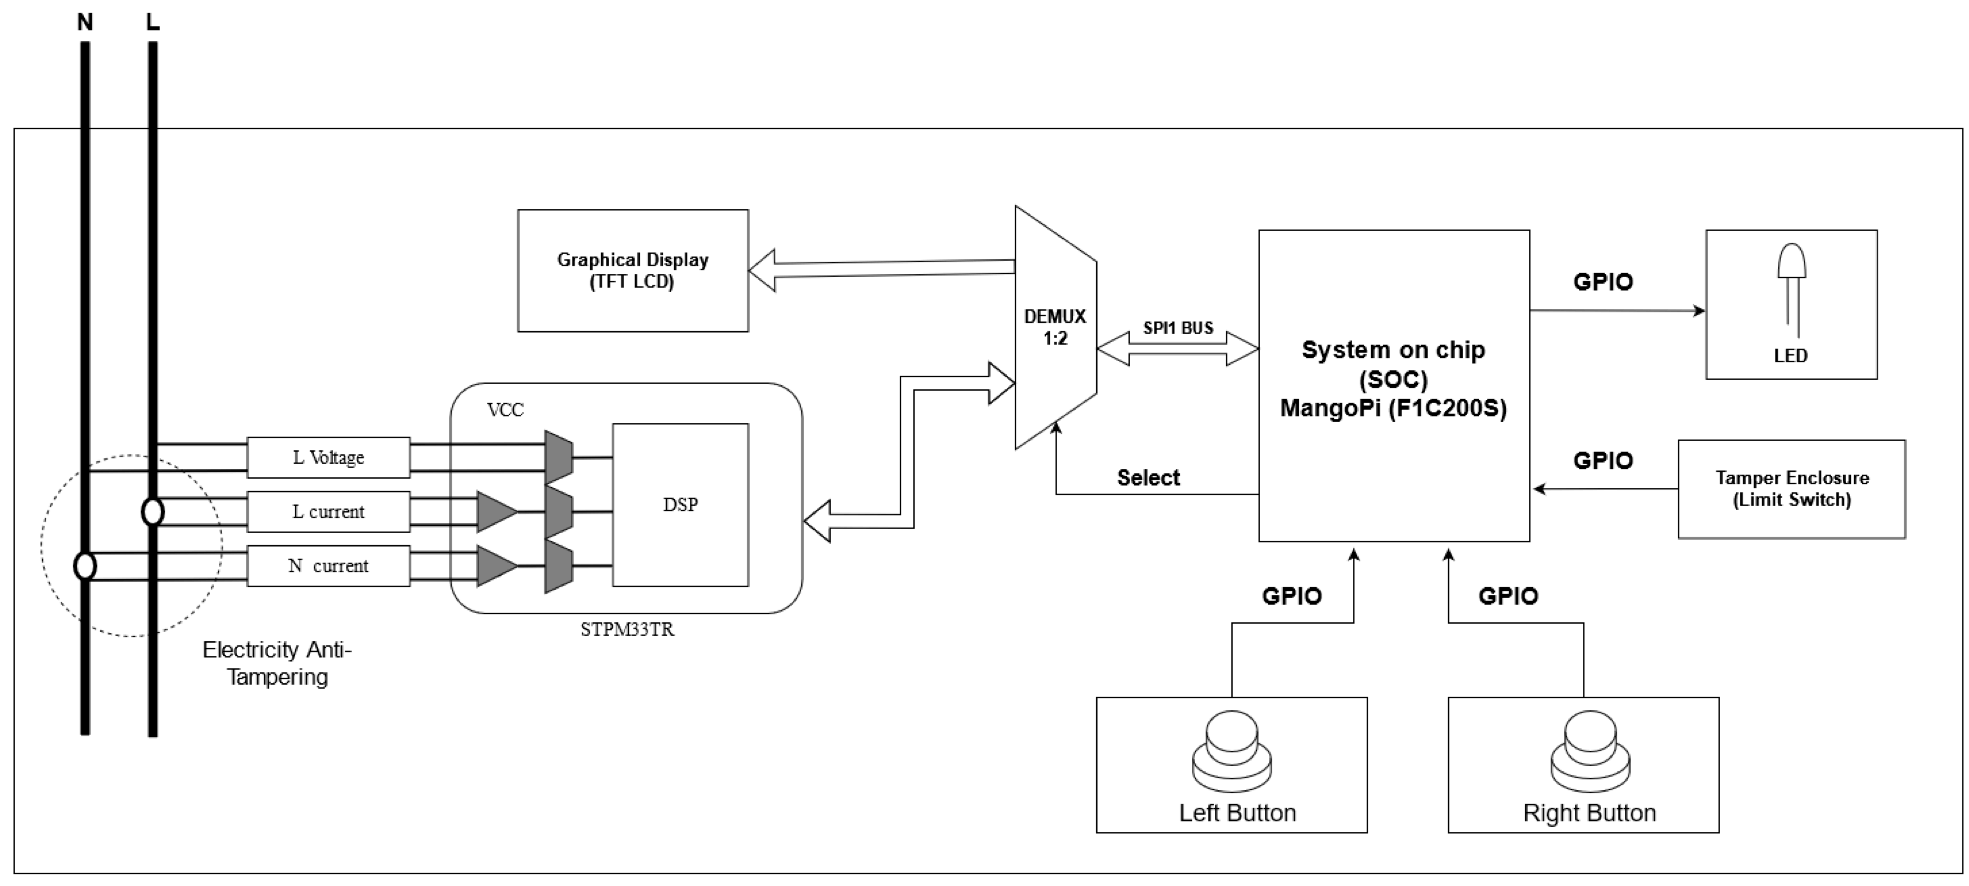
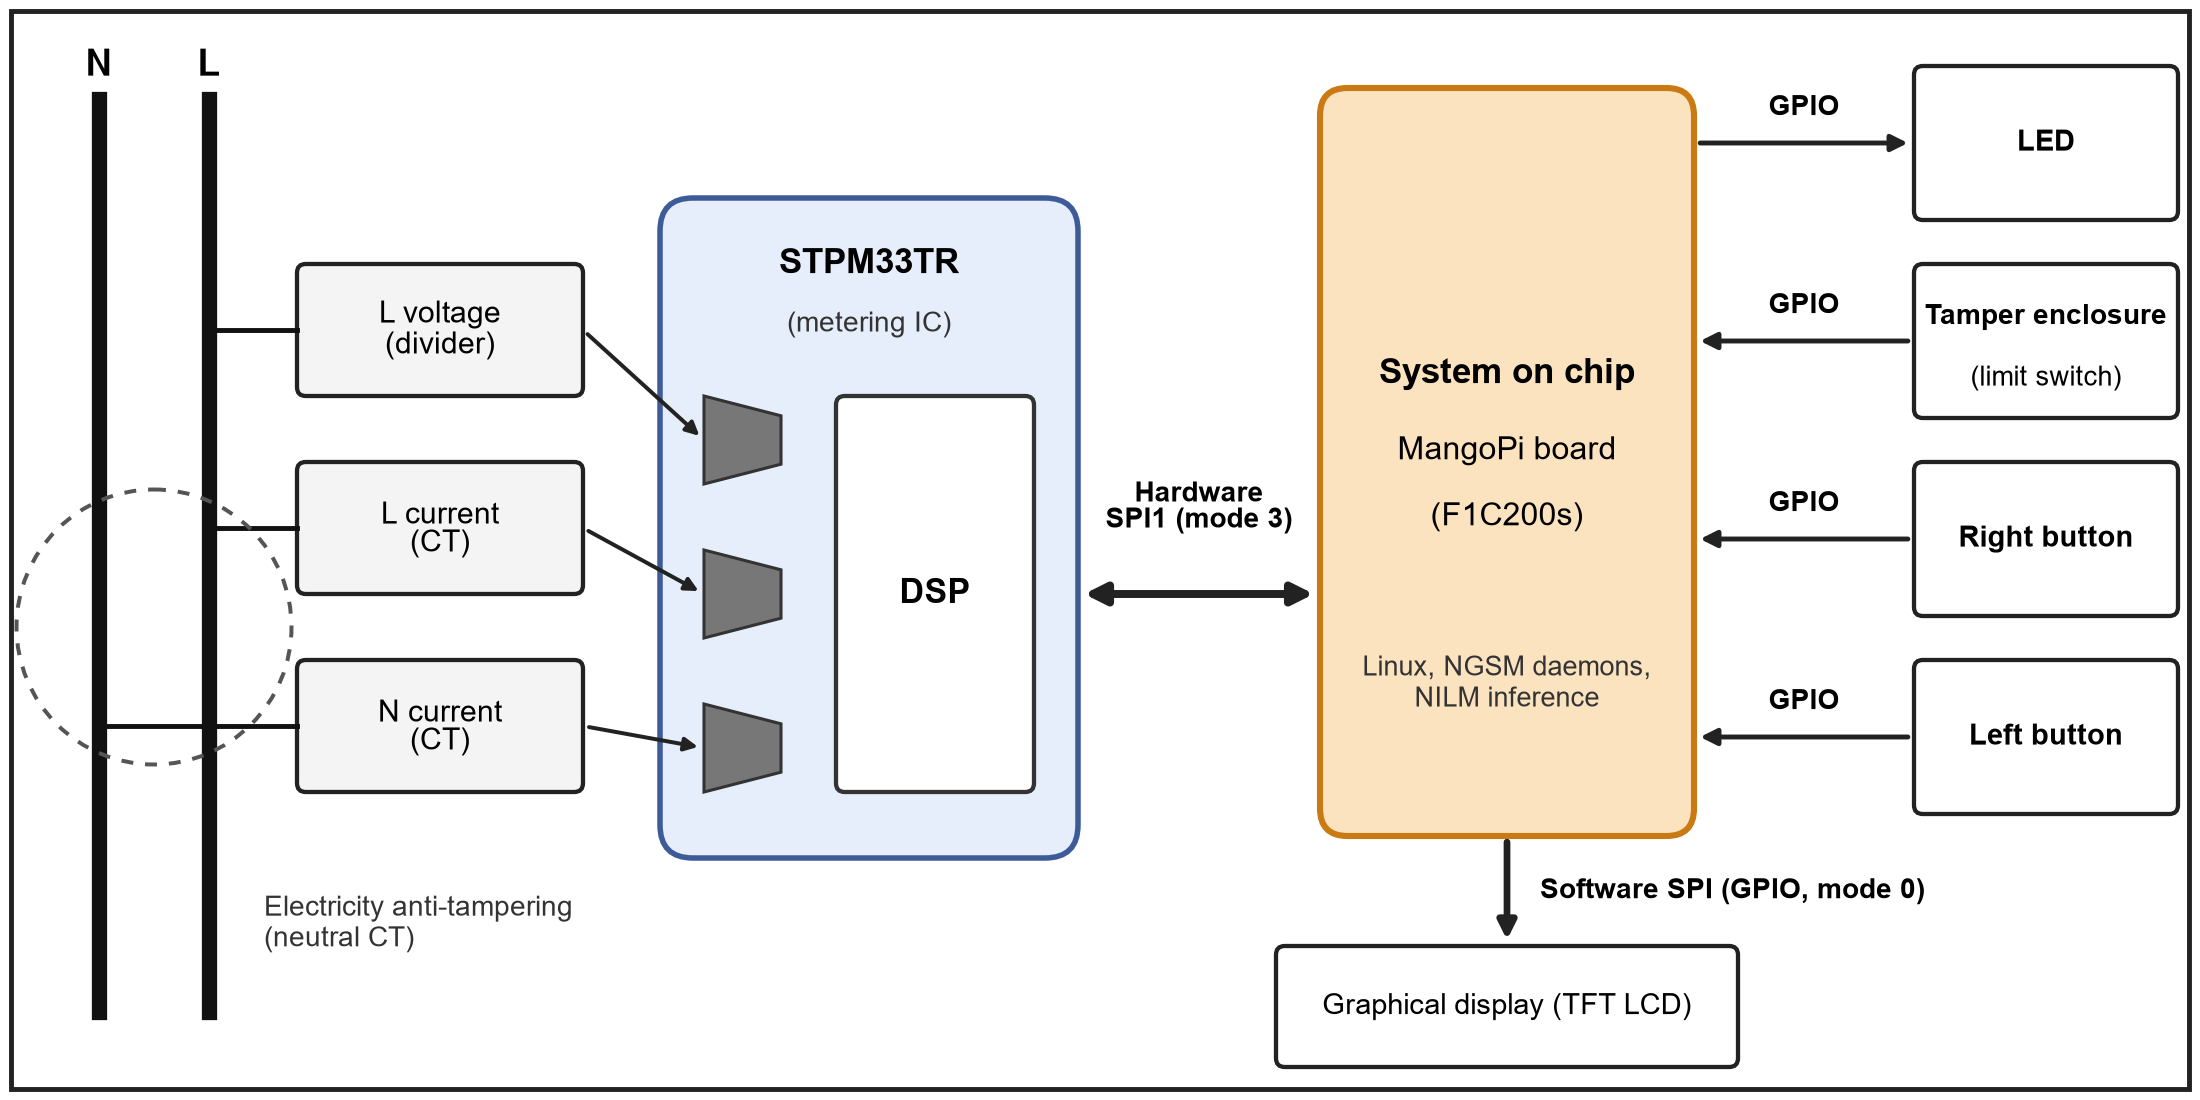
Revise manuscript and figures based on reviewer feedback: update abstract, enhance hardware specifications, clarify power measurements, add operator-fusion ablation, and redraw figures for consistency and legibility.

diff --git a/main.tex b/main.tex
@@ -261,7 +261,7 @@ The power regulation, metrology and processing domains share one double-layer PC
 \begin{figure}[!t]
     \centering
     \includegraphics[width=0.95\textwidth]{figures/img11.png}
-    \caption{Third Generation NGSM Hardware Components illustrating the schematic integration of the Allwinner F1C200s SoC with the STPM33 and peripheral interfaces.}
+    \caption{Third Generation NGSM Hardware Components illustrating the block diagram of the Allwinner F1C200s SoC (MangoPi board) with the STPM33TR on the hardware SPI1, the TFT display on a software SPI, and the GPIO peripherals.}
     \label{fig:gen3_schematic}
 \end{figure}
 
@@ -476,7 +476,7 @@ THD = \frac{\sqrt{\sum_{h=2}^{H} Y_h^2}}{Y_1}
 
 where $H = 40$, the harmonic range defined by IEC 61000-4-7 \cite{iec61000_4_7}.
 
-The spectral composition of the voltage and current waveforms is computed locally at the meter node, in line with edge computing paradigms that avoid the latency of cloud analysis \cite{shang2021achieving}. Spectral estimation follows the harmonic-subgroup method of IEC 61000-4-7 \cite{iec61000_4_7}. The fundamental period is tracked from the positive-going zero crossings of the band-pass-filtered voltage, and both signals are resampled synchronously so that each analysis window contains exactly ten fundamental cycles (200~ms at 50~Hz) with 1024 points per cycle. A rectangular-window DFT then places every harmonic on a 5~Hz bin, and $Y_h$ is the RMS value of the harmonic subgroup (the bin at $h f_1$ and its two neighbours); window values are aggregated as RMS over consecutive windows, as in IEC 61000-4-30 \cite{iec61000_4_30}. Synchronous windowing avoids the spectral leakage of a fixed-length windowed FFT with peak picking, whose accuracy depends on how closely the record length matches an integer number of grid cycles. Because the indices are reported at the 10-min interval, the spectral computation does not have to run on the meter: it can upload a few seconds of samples per interval to a cloud job that returns the indices, which keeps the single core free for metrology and NILM inference.
+The spectral composition of the voltage and current waveforms is computed locally at the meter node, in line with edge computing paradigms that avoid the latency of cloud analysis \cite{shang2021achieving}. Spectral estimation follows the harmonic-subgroup method of IEC 61000-4-7 \cite{iec61000_4_7}. The fundamental period is tracked from the positive-going zero crossings of the band-pass-filtered voltage, and both signals are resampled synchronously so that each analysis window contains exactly ten fundamental cycles (200~ms at 50~Hz) with 1024 points per cycle. A rectangular-window DFT then places every harmonic on a 5~Hz bin, and $Y_h$ is the RMS value of the harmonic subgroup (the bin at $h f_1$ and its two neighbours); window values are aggregated as RMS over consecutive windows, as in IEC 61000-4-30 \cite{iec61000_4_30}. Synchronous windowing avoids the spectral leakage of a fixed-length windowed FFT with peak picking, whose accuracy depends on how closely the record length matches an integer number of grid cycles. The harmonic analysis runs on the meter itself; the indices are reported at the 10-min interval, so it is a short computation per interval, but its execution time and its share of the single core while an inference is running have not been measured separately (see the limitations).
 
 The estimator was verified on synthetic voltage and current signals with known harmonic content (seven profiles from 6.2\% to 110\% THD, fundamental frequencies from 49 to 51~Hz, a frequency drift, an interharmonic and the noise level measured on the prototype; the complete test design is given in the Supplementary Material). Table~\ref{tab:thd_verification} and Figure~\ref{fig:thd_verification} compare the subgroup estimator with a fixed-length Blackman--Harris FFT with peak picking and with a notch method that removes only the fundamental. The subgroup estimator stays within 0.31 percentage points (pp) of the true THD for the profile matching the measured current and within 1.09~pp in the worst case, the low-distortion profile at the measured noise floor. Peak picking is exact only when the record contains an integer number of cycles (50.0~Hz) and deviates by up to 5.4~pp at 50.2~Hz and 10.9~pp under frequency drift. The notch method retains the noise and therefore estimates THD plus noise (THD+N) rather than THD.
 
@@ -1244,6 +1244,25 @@ UK-DALE & Cls. & 3.85 MB & 0.98 MB & 0.98 MB & 3.9$\times$ \\
 \end{tabular}
 \end{table}
 
+\paragraph{Effect of operator fusion}
+To separate the effect of the compiler fusion from that of quantization, each regression network was built in three NCNN forms with identical weights (Table~\ref{tab:fusion}): \textit{unfused}, with Convolution, BatchNorm and ReLU as separate layers; \textit{BN folded}, with BatchNorm merged into the convolution weights; and the \textit{deployed} graph, in which the ReLU is also merged into the convolution layer. PNNX cannot export the unfused graphs, so they were generated directly from the PyTorch weights; all three reproduce the PyTorch output within $4\times10^{-4}$~W, and NCNN's own \texttt{ncnnoptimize} turns the unfused graph into the same 66-layer deployed graph. Fusion removes one third of the layers (98 to 66 for the 12-appliance models) and 0.9\% of the weight file (the BatchNorm parameters), and it does not change the accuracy: the FP32 and the INT8 MAE and F1 are identical to the third decimal in all three forms. The PC latency (single thread, x86) is 6.6--7.9~ms for every form, and the differences between forms are within the repeatability of the measurement ($\pm$0.4~ms); a latency benefit of the fusion could therefore not be shown on the PC. Its effect on the F1C200s, where fewer layers mean fewer passes over the activations in the 64~MB memory, was not measured. Fusion is thus a lossless graph optimization, and the accuracy changes reported in this section are caused by the quantization alone.
+
+\begin{table}[!t]
+\centering
+\caption{Operator-fusion ablation of the regression models (same weights; REFIT on 3{,}000 evenly spaced test windows, the other datasets on the complete test split). Layers: unfused / BN folded / deployed. INT8 results use ACIQ calibration of all convolutions with the same 500 calibration windows. Latency: one window, one thread, PC, range over the three forms (FP32 / INT8).}
+\label{tab:fusion}
+\footnotesize
+\begin{tabular}{@{}lcccc@{}}
+\toprule
+Dataset & Layers & INT8 MAE (W) / F1 (all forms) & INT8 size (MB) unfused / deployed & Latency (ms) \\
+\midrule
+REFIT & 89 / 76 / 60 & 15.85 / 0.450 & 0.74 / 0.72 & 6.8--7.7 / 6.6--7.0 \\
+SustDataED2 & 98 / 85 / 66 & 5.38 / 0.816 & 0.78 / 0.76 & 7.2--7.4 / 6.9--7.1 \\
+UK-DALE & 98 / 85 / 66 & 17.30 / 0.528 & 0.78 / 0.76 & 7.6--7.9 / 7.0--7.3 \\
+\bottomrule
+\end{tabular}
+\end{table}
+
 \paragraph{Stage 4: Cross-Compilation for ARM Architecture}
 The quantized NCNN model was cross-compiled for the ARM926EJ-S with the arm-linux-gnueabi-g++ toolchain (\texttt{-mcpu=arm926ej-s -mfloat-abi=soft}) and the engine statically linked. As the F1C200s has no FPU, the convolutions run in INT8 integer arithmetic while the few remaining floating-point operations (input scaling, quantization scales, output de-quantization, threshold) use soft-float routines; their cost is negligible, since they touch only the 512 inputs and $512\times A$ outputs against $3.8\times10^{8}$ multiply--accumulate operations. The deployment comprises the executable (28~KB), the model structure file (5~KB) and the quantized weights (850~KB), 883~KB in total.
 
@@ -1394,7 +1413,7 @@ Edge processing also relieves bandwidth \cite{Kelly2024}: transmitting only clas
 \subsection{Lifecycle, Scalability and Privacy}
 \label{subsec:lifecycle}
 
-\textit{Updates and scalability.} The meter runs embedded Linux, and system updates are applied by overwriting the deployed system through the available communication mechanism; firmware packages should be authenticated by digital-signature verification before installation, which is planned hardening and not claimed as implemented. Model versions are tracked with MLflow, but this does not show which version runs on each meter, so device-level version reporting and controlled rollout are future work. Backend and database capacity at fleet scale has not been validated, and no capacity claim is made without load tests of telemetry volume, storage under a retention policy, ingestion and query performance.
+\textit{Updates and scalability.} The meter runs embedded Linux, and system updates are applied by overwriting the deployed system through the available communication mechanism; firmware packages should be authenticated by digital-signature verification before installation, which is planned hardening and not claimed as implemented. Model versions are tracked with MLflow, but this does not show which version runs on each meter, so device-level version reporting and controlled rollout are future work. Simple arithmetic shows the order of magnitude per million meters: the 15-min values used by the forecasting service are 768~bytes per meter and day (about 0.8~GB per day for the fleet), a full model update of 0.72--0.98~MB per meter amounts to roughly 1~TB of distribution traffic, and the forecasting job needs about 2--80 CPU cores for 12{,}000--430{,}000 meters per core. These are estimates, not measurements: backend and database capacity at fleet scale has not been validated, and no capacity claim is made without load tests of telemetry volume, storage under a retention policy, ingestion and query performance. Model synchronization is a distribution of exported INT8 files from the cloud to the meters; the rollout, version reporting and failure handling of this distribution are future work.
 
 \textit{Privacy.} Raw high-frequency voltage and current are processed on the meter and are not uploaded during normal NILM operation; the head-end system receives appliance classifications, estimated appliance power or energy, event timestamps, aggregated consumption and the identifier needed to associate them with an account, and the forecasting service uses only aggregated 15-min values. This reduces the exposure of raw measurements but does not prevent inference of occupancy and routines from appliance-level events, so NGSM is a privacy-risk-reduction architecture, not a guarantee of anonymity. Table~\ref{tab:privacy_threats} summarizes the main threats. Federated learning limits the centralization of training data but adds communication, synchronization and local-training costs on a 64~MB meter without FPU, and its updates can leak information; homomorphic encryption and secure aggregation protect specific computations at the cost of computation, message size and key management that would have to be measured on the target hardware. None of these approaches prevents inference from legitimately shared outputs; combining local inference with secure aggregation for future multi-meter learning is a possible direction.
 
@@ -1449,7 +1468,7 @@ A persistent barrier to the adoption of NILM is the cold-start problem, where a 
 \subsection{Limitations}
 \label{subsec:limitations}
 
-The NILM evaluation has the following limits. The SustDataED2 aggregate is the sum of the metered appliance channels, a closed setting without unmetered load; SustDataED2 and UK-DALE are single households, so unseen-household behavior is measured only on REFIT; the REFIT models of the controlled experiments use a reduced training protocol; the baselines are our own re-implementations and were not individually tuned; the cross-dataset and adaptation study covers five shared appliances and two source--target pairs; and neither multi-year drift nor changes in the appliance inventory could be assessed with the available data. Single-phase residential loads are considered; three-phase and industrial installations, other grid standards and larger appliance sets remain to be studied.
+The NILM evaluation has the following limits. The SustDataED2 aggregate is the sum of the metered appliance channels, a closed setting without unmetered load; SustDataED2 and UK-DALE are single households, so unseen-household behavior is measured only on REFIT; the REFIT models of the controlled experiments use a reduced training protocol; the baselines are our own re-implementations and were not individually tuned; the cross-dataset and adaptation study covers five shared appliances and two source--target pairs; and neither multi-year drift nor changes in the appliance inventory could be assessed with the available data. The scope is single-phase residential loads on 230~V, 50~Hz installations, and four extensions are not covered. \textit{Three-phase systems}: the prototype measures one phase, and disaggregating a three-phase aggregate (per-phase or total signal, unbalanced loads) was not evaluated. \textit{Industrial environments}: the training data contain household appliances of about 2~W to 2~kW, whereas industrial loads include variable-speed drives, much higher power levels and non-stationary duty cycles, so the models and the 15~W state threshold would have to be re-derived. \textit{Larger appliance sets}: the network has one output head per appliance, so the parameter count grows by about 12{,}400 per appliance (706{,}889 for 9 and 743{,}948 for 12 appliances) and the inference time on the F1C200s by 8--19\% from 9 to 12 appliances, which together with the 64~MB memory (66.77\% used) bounds the number of appliances per meter. \textit{Grid standards}: the harmonic method uses the 10-cycle window of IEC 61000-4-7 for 50~Hz (12 cycles for 60~Hz systems), and the NILM models were trained on 50~Hz data only. Long-term field validation of accuracy, drift and hardware reliability is part of the planned pilot deployments.
 
 The hardware is an uncertified proof-of-concept prototype. Power was read with a multimeter and is reported at board level; no formal thermal measurements, environmental tests, surge tests (IEC 61000-4-5) or certification under IEC 62052-11 and IEC 62053-21 were performed, and creepage and clearance distances were not verified. The harmonic measurement was verified on synthetic signals and cross-checked, but not against a certified power-quality analyzer. The concurrent operation of metrology, display, tamper detection and communication during an inference run has not been measured, and the results of the 24-h soak test are limited to a single run of that duration.
 
